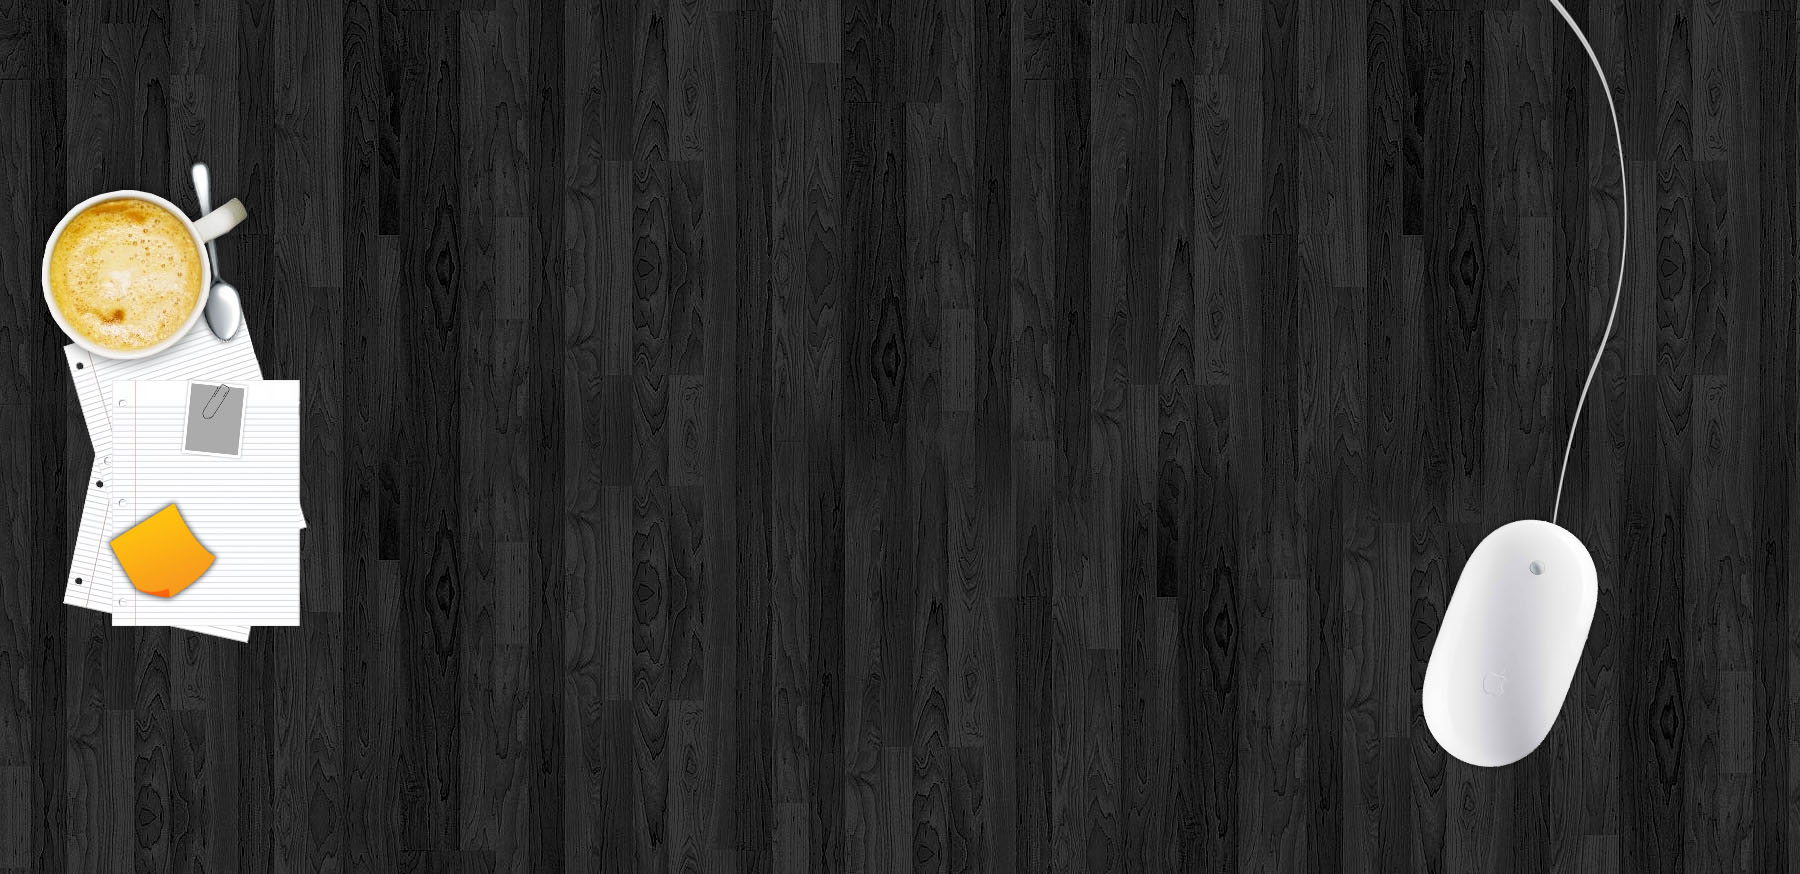
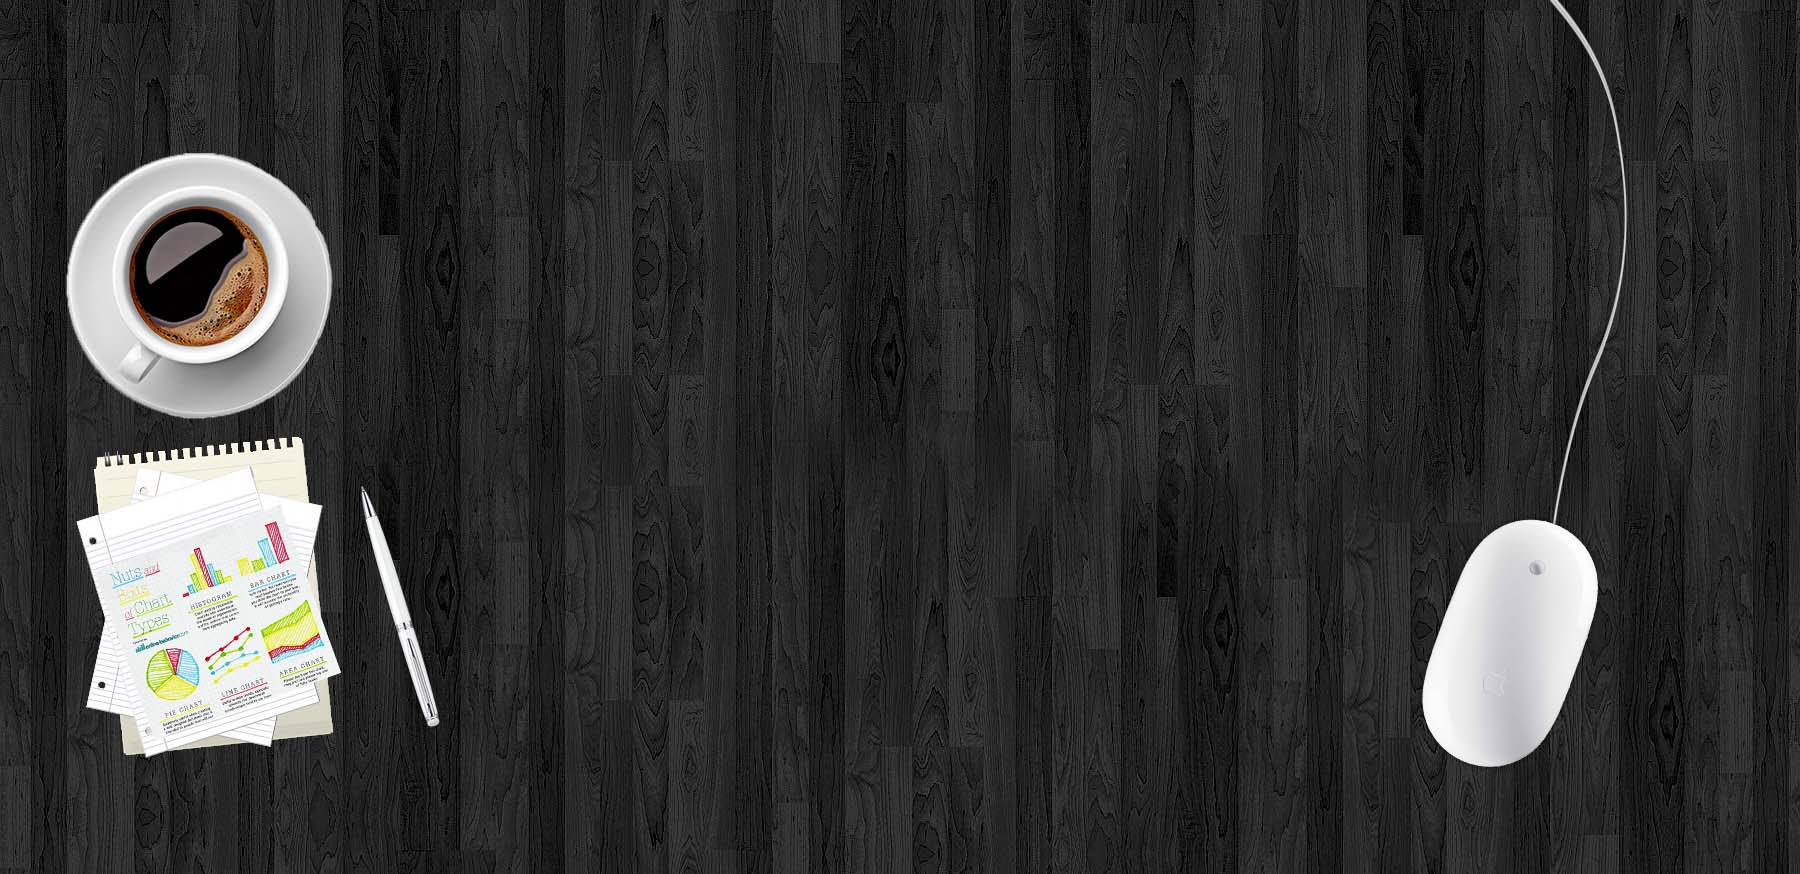
background

Changed region(s): [[0.0, 0.1545, 0.2489, 0.865]]

diff --git a/index.html b/index.html
@@ -114,7 +114,7 @@
 					<div id="revolutionSlider" class="slider rev_slider" data-version="5.4.7" data-plugin-revolution-slider data-plugin-options="{'delay': 9000, 'gridwidth': 1170, 'sliderLayout': 'fullscreen', 'fullScreenOffset': '0', 'responsiveLevels': [4096,1200,992,500]}">
 						<ul>
 								<li data-transition="fade">
-									<img src="img/slides/background103.jpg"  
+									<img src="img/slides/background102.jpg"  
 										alt=""
 										data-bgposition="center center" 
 										data-bgfit="cover" 
@@ -207,7 +207,7 @@
 										data-transform_in="y:[300%];opacity:0;s:300;">come true :)</div>
 								</li>
 								<li data-transition="fade">
-									<img src="img/slides/background103.jpg"  
+									<img src="img/slides/background102.jpg"  
 										alt=""
 										data-bgposition="center center" 
 										data-bgfit="cover" 
